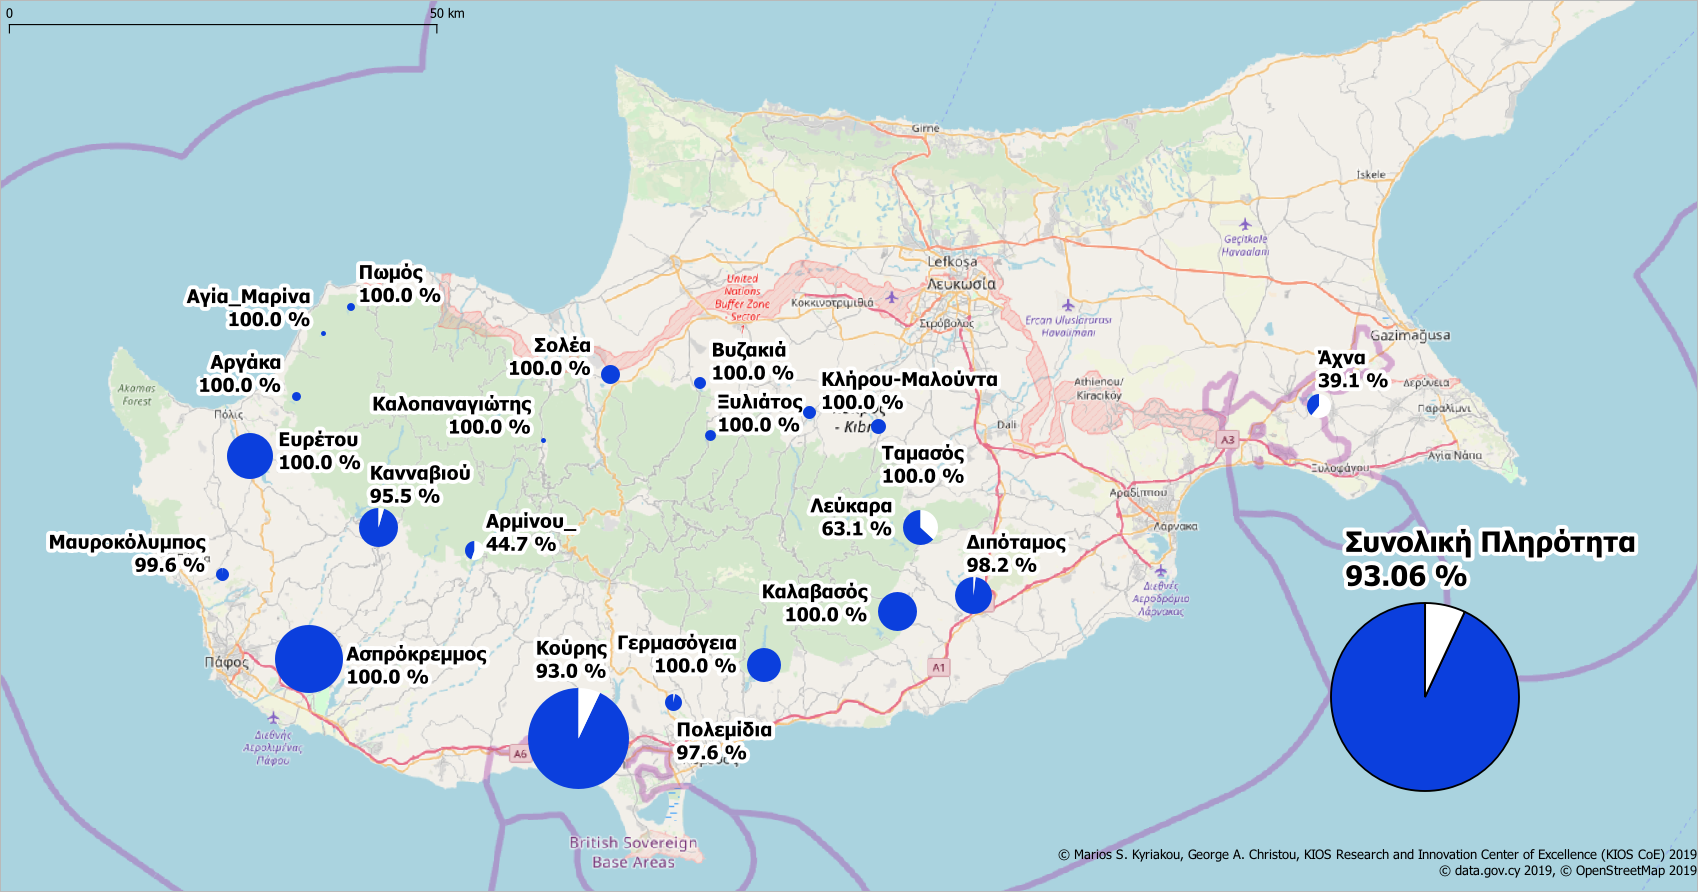
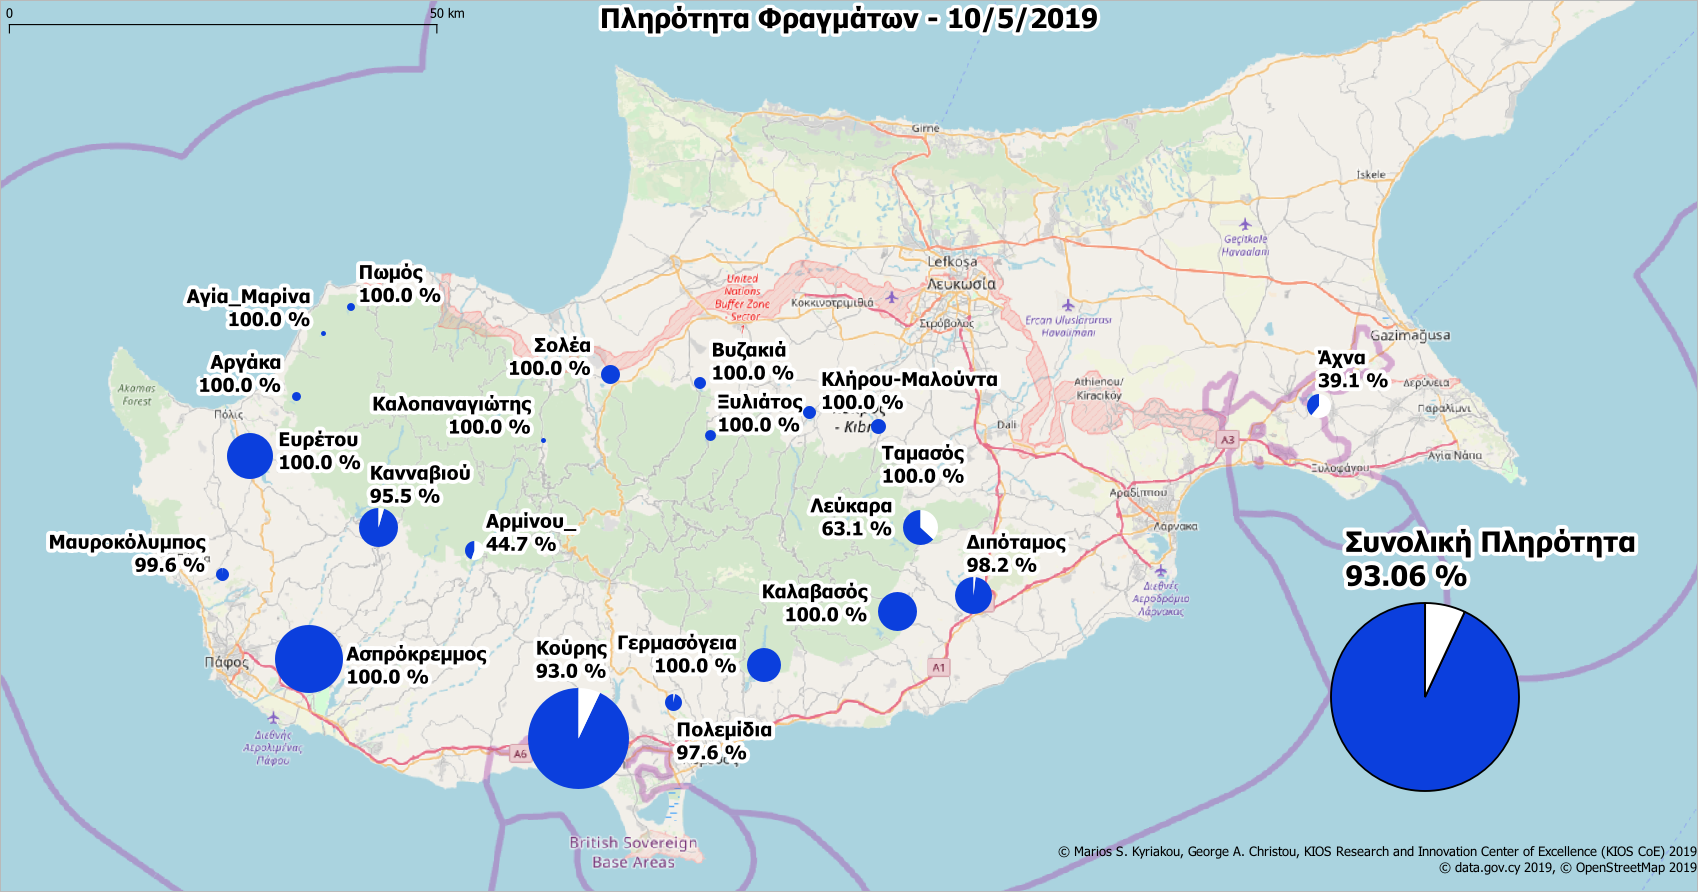
update

Changed region(s): [[0.6243, 0.9383, 1.0, 0.9989], [0.3433, 0.0, 0.6555, 0.0605]]

diff --git a/dams.html b/dams.html
@@ -11,11 +11,7 @@
          1px  1px 7px WHITE;
     }
     }
-<<<<<<< HEAD
-    </style><p><b>Ημερομηνία ανανέωσης δεδομένων: 12/5/2019<p><font color="#0000FF">Η συνολική πληρότητα στα φράγματα είναι 93.06%</font>.<p>Υπάρχουν συνολικά <font color="#0000FF">13</font> φράγματα με πληρότητα <font color="#0000FF">100%</font>.<p>Υπάρχουν <font color="#0000FF">19</font> φράγματα με πληρότητα πάνω από <font color="#0000FF">50%</font>.</b><p><b>Υπάρχουν δεδομένα για 21 φράγματα. Συνολικά υπάρχουν 108 φράγματα. <b><p><p><p>* Ε.Κ.Μ. - Εκατομμύρια Kυβικά  Mέτρα.<table width="444">
-=======
-    </style><p><b>Ημερομηνία ανανέωσης δεδομένων: 9/5/2019<p><font color="#0000FF">Η συνολική πληρότητα στα φράγματα είναι 93.02%</font>.<p>Υπάρχουν συνολικά <font color="#0000FF">13</font> φράγματα με πληρότητα <font color="#0000FF">100%</font>.<p>Υπάρχουν <font color="#0000FF">19</font> φράγματα με πληρότητα πάνω από <font color="#0000FF">50%</font>.</b><p><b>Υπάρχουν δεδομένα για 21 φράγματα. Συνολικά υπάρχουν 108 φράγματα. <b><p><p><p>* Ε.Κ.Μ. - Εκατομμύρια Kυβικά  Mέτρα.<table width="444">
->>>>>>> parent of bac5732... update
+    </style><p><b>Ημερομηνία ανανέωσης δεδομένων: 10/5/2019<p><font color="#0000FF">Η συνολική πληρότητα στα φράγματα είναι 93.06%</font>.<p>Υπάρχουν συνολικά <font color="#0000FF">13</font> φράγματα με πληρότητα <font color="#0000FF">100%</font>.<p>Υπάρχουν <font color="#0000FF">19</font> φράγματα με πληρότητα πάνω από <font color="#0000FF">50%</font>.</b><p><b>Υπάρχουν δεδομένα για 21 φράγματα. Συνολικά υπάρχουν 108 φράγματα. <b><p><p><p>* Ε.Κ.Μ. - Εκατομμύρια Kυβικά  Mέτρα.<table width="444">
     <tbody>
     <tr>
     <th width="2"><b></b></th>
@@ -23,7 +19,7 @@
     <th width="60"><b>Χωρητικότητα (Ε.Κ.Μ.)</b></th>
     <th width="60"><b>Σημερινή (Ε.Κ.Μ.)</b></th>
     <th width="60"><b> Σημερινή Πληρότητα (%)</b></th>
-    </tr><tr><td bgcolor=#1A9641 class=border-white>1</td><td bgcolor=#1A9641 class=border-white>Κούρης</td><td bgcolor=#1A9641 class=border-white>115.0</td><td bgcolor=#1A9641 class=border-white>106.932</td><td bgcolor=#1A9641 class=border-white>93.0</td></tr><tr><tr><td bgcolor=#1A9641 class=border-white>2</td><td bgcolor=#1A9641 class=border-white>Ασπρόκρεμμος</td><td bgcolor=#1A9641 class=border-white>52.375</td><td bgcolor=#1A9641 class=border-white>52.375</td><td bgcolor=#1A9641 class=border-white>100.0</td></tr><tr><tr><td bgcolor=#1A9641 class=border-white>3</td><td bgcolor=#1A9641 class=border-white>Ευρέτου</td><td bgcolor=#1A9641 class=border-white>24.0</td><td bgcolor=#1A9641 class=border-white>23.989</td><td bgcolor=#1A9641 class=border-white>100.0</td></tr><tr><tr><td bgcolor=#1A9641 class=border-white>4</td><td bgcolor=#1A9641 class=border-white>Κανναβιού</td><td bgcolor=#1A9641 class=border-white>17.168</td><td bgcolor=#1A9641 class=border-white>16.38</td><td bgcolor=#1A9641 class=border-white>95.4</td></tr><tr><tr><td bgcolor=#1A9641 class=border-white>5</td><td bgcolor=#1A9641 class=border-white>Καλαβασός</td><td bgcolor=#1A9641 class=border-white>17.1</td><td bgcolor=#1A9641 class=border-white>17.1</td><td bgcolor=#1A9641 class=border-white>100.0</td></tr><tr><tr><td bgcolor=#1A9641 class=border-white>6</td><td bgcolor=#1A9641 class=border-white>Διπόταμος</td><td bgcolor=#1A9641 class=border-white>15.5</td><td bgcolor=#1A9641 class=border-white>15.21</td><td bgcolor=#1A9641 class=border-white>98.1</td></tr><tr><tr><td bgcolor=#A6D96A class=border-white>7</td><td bgcolor=#A6D96A class=border-white>Λεύκαρα</td><td bgcolor=#A6D96A class=border-white>13.85</td><td bgcolor=#A6D96A class=border-white>8.735</td><td bgcolor=#A6D96A class=border-white>63.1</td></tr><tr><tr><td bgcolor=#1A9641 class=border-white>8</td><td bgcolor=#1A9641 class=border-white>Γερμασόγεια</td><td bgcolor=#1A9641 class=border-white>13.5</td><td bgcolor=#1A9641 class=border-white>13.5</td><td bgcolor=#1A9641 class=border-white>100.0</td></tr><tr><tr><td bgcolor=#FED690 class=border-white>9</td><td bgcolor=#FED690 class=border-white>Άχνα</td><td bgcolor=#FED690 class=border-white>6.8</td><td bgcolor=#FED690 class=border-white>2.661</td><td bgcolor=#FED690 class=border-white>39.1</td></tr><tr><tr><td bgcolor=#1A9641 class=border-white>10</td><td bgcolor=#1A9641 class=border-white>Σολέα</td><td bgcolor=#1A9641 class=border-white>4.454</td><td bgcolor=#1A9641 class=border-white>4.454</td><td bgcolor=#1A9641 class=border-white>100.0</td></tr><tr><tr><td bgcolor=#FFFFC0 class=border-white>11</td><td bgcolor=#FFFFC0 class=border-white>Αρμίνου_</td><td bgcolor=#FFFFC0 class=border-white>4.3</td><td bgcolor=#FFFFC0 class=border-white>1.84</td><td bgcolor=#FFFFC0 class=border-white>42.8</td></tr><tr><tr><td bgcolor=#1A9641 class=border-white>12</td><td bgcolor=#1A9641 class=border-white>Πολεμίδια</td><td bgcolor=#1A9641 class=border-white>3.4</td><td bgcolor=#1A9641 class=border-white>3.329</td><td bgcolor=#1A9641 class=border-white>97.9</td></tr><tr><tr><td bgcolor=#1A9641 class=border-white>13</td><td bgcolor=#1A9641 class=border-white>Ταμασός</td><td bgcolor=#1A9641 class=border-white>2.8</td><td bgcolor=#1A9641 class=border-white>2.8</td><td bgcolor=#1A9641 class=border-white>100.0</td></tr><tr><tr><td bgcolor=#1A9641 class=border-white>14</td><td bgcolor=#1A9641 class=border-white>Μαυροκόλυμπος</td><td bgcolor=#1A9641 class=border-white>2.18</td><td bgcolor=#1A9641 class=border-white>2.176</td><td bgcolor=#1A9641 class=border-white>99.8</td></tr><tr><tr><td bgcolor=#1A9641 class=border-white>15</td><td bgcolor=#1A9641 class=border-white>Κλήρου-Μαλούντα</td><td bgcolor=#1A9641 class=border-white>2.0</td><td bgcolor=#1A9641 class=border-white>2.0</td><td bgcolor=#1A9641 class=border-white>100.0</td></tr><tr><tr><td bgcolor=#1A9641 class=border-white>16</td><td bgcolor=#1A9641 class=border-white>Βυζακιά</td><td bgcolor=#1A9641 class=border-white>1.69</td><td bgcolor=#1A9641 class=border-white>1.69</td><td bgcolor=#1A9641 class=border-white>100.0</td></tr><tr><tr><td bgcolor=#1A9641 class=border-white>17</td><td bgcolor=#1A9641 class=border-white>Ξυλιάτος</td><td bgcolor=#1A9641 class=border-white>1.43</td><td bgcolor=#1A9641 class=border-white>1.43</td><td bgcolor=#1A9641 class=border-white>100.0</td></tr><tr><tr><td bgcolor=#1A9641 class=border-white>18</td><td bgcolor=#1A9641 class=border-white>Αργάκα</td><td bgcolor=#1A9641 class=border-white>0.99</td><td bgcolor=#1A9641 class=border-white>0.99</td><td bgcolor=#1A9641 class=border-white>100.0</td></tr><tr><tr><td bgcolor=#1A9641 class=border-white>19</td><td bgcolor=#1A9641 class=border-white>Πωμός</td><td bgcolor=#1A9641 class=border-white>0.86</td><td bgcolor=#1A9641 class=border-white>0.86</td><td bgcolor=#1A9641 class=border-white>100.0</td></tr><tr><tr><td bgcolor=#1A9641 class=border-white>20</td><td bgcolor=#1A9641 class=border-white>Καλοπαναγιώτης</td><td bgcolor=#1A9641 class=border-white>0.363</td><td bgcolor=#1A9641 class=border-white>0.363</td><td bgcolor=#1A9641 class=border-white>100.0</td></tr><tr><tr><td bgcolor=#1A9641 class=border-white>21</td><td bgcolor=#1A9641 class=border-white>Αγία_Μαρίνα</td><td bgcolor=#1A9641 class=border-white>0.298</td><td bgcolor=#1A9641 class=border-white>0.298</td><td bgcolor=#1A9641 class=border-white>100.0</td></tr><tr>
+    </tr><tr><td bgcolor=#1A9641 class=border-white>1</td><td bgcolor=#1A9641 class=border-white>Κούρης</td><td bgcolor=#1A9641 class=border-white>115.0</td><td bgcolor=#1A9641 class=border-white>106.964</td><td bgcolor=#1A9641 class=border-white>93.0</td></tr><tr><tr><td bgcolor=#1A9641 class=border-white>2</td><td bgcolor=#1A9641 class=border-white>Ασπρόκρεμμος</td><td bgcolor=#1A9641 class=border-white>52.375</td><td bgcolor=#1A9641 class=border-white>52.375</td><td bgcolor=#1A9641 class=border-white>100.0</td></tr><tr><tr><td bgcolor=#1A9641 class=border-white>3</td><td bgcolor=#1A9641 class=border-white>Ευρέτου</td><td bgcolor=#1A9641 class=border-white>24.0</td><td bgcolor=#1A9641 class=border-white>24.0</td><td bgcolor=#1A9641 class=border-white>100.0</td></tr><tr><tr><td bgcolor=#1A9641 class=border-white>4</td><td bgcolor=#1A9641 class=border-white>Κανναβιού</td><td bgcolor=#1A9641 class=border-white>17.168</td><td bgcolor=#1A9641 class=border-white>16.389</td><td bgcolor=#1A9641 class=border-white>95.5</td></tr><tr><tr><td bgcolor=#1A9641 class=border-white>5</td><td bgcolor=#1A9641 class=border-white>Καλαβασός</td><td bgcolor=#1A9641 class=border-white>17.1</td><td bgcolor=#1A9641 class=border-white>17.1</td><td bgcolor=#1A9641 class=border-white>100.0</td></tr><tr><tr><td bgcolor=#1A9641 class=border-white>6</td><td bgcolor=#1A9641 class=border-white>Διπόταμος</td><td bgcolor=#1A9641 class=border-white>15.5</td><td bgcolor=#1A9641 class=border-white>15.22</td><td bgcolor=#1A9641 class=border-white>98.2</td></tr><tr><tr><td bgcolor=#A6D96A class=border-white>7</td><td bgcolor=#A6D96A class=border-white>Λεύκαρα</td><td bgcolor=#A6D96A class=border-white>13.85</td><td bgcolor=#A6D96A class=border-white>8.74</td><td bgcolor=#A6D96A class=border-white>63.1</td></tr><tr><tr><td bgcolor=#1A9641 class=border-white>8</td><td bgcolor=#1A9641 class=border-white>Γερμασόγεια</td><td bgcolor=#1A9641 class=border-white>13.5</td><td bgcolor=#1A9641 class=border-white>13.5</td><td bgcolor=#1A9641 class=border-white>100.0</td></tr><tr><tr><td bgcolor=#FED690 class=border-white>9</td><td bgcolor=#FED690 class=border-white>Άχνα</td><td bgcolor=#FED690 class=border-white>6.8</td><td bgcolor=#FED690 class=border-white>2.661</td><td bgcolor=#FED690 class=border-white>39.1</td></tr><tr><tr><td bgcolor=#1A9641 class=border-white>10</td><td bgcolor=#1A9641 class=border-white>Σολέα</td><td bgcolor=#1A9641 class=border-white>4.454</td><td bgcolor=#1A9641 class=border-white>4.454</td><td bgcolor=#1A9641 class=border-white>100.0</td></tr><tr><tr><td bgcolor=#FFFFC0 class=border-white>11</td><td bgcolor=#FFFFC0 class=border-white>Αρμίνου_</td><td bgcolor=#FFFFC0 class=border-white>4.3</td><td bgcolor=#FFFFC0 class=border-white>1.923</td><td bgcolor=#FFFFC0 class=border-white>44.7</td></tr><tr><tr><td bgcolor=#1A9641 class=border-white>12</td><td bgcolor=#1A9641 class=border-white>Πολεμίδια</td><td bgcolor=#1A9641 class=border-white>3.4</td><td bgcolor=#1A9641 class=border-white>3.32</td><td bgcolor=#1A9641 class=border-white>97.6</td></tr><tr><tr><td bgcolor=#1A9641 class=border-white>13</td><td bgcolor=#1A9641 class=border-white>Ταμασός</td><td bgcolor=#1A9641 class=border-white>2.8</td><td bgcolor=#1A9641 class=border-white>2.8</td><td bgcolor=#1A9641 class=border-white>100.0</td></tr><tr><tr><td bgcolor=#1A9641 class=border-white>14</td><td bgcolor=#1A9641 class=border-white>Μαυροκόλυμπος</td><td bgcolor=#1A9641 class=border-white>2.18</td><td bgcolor=#1A9641 class=border-white>2.171</td><td bgcolor=#1A9641 class=border-white>99.6</td></tr><tr><tr><td bgcolor=#1A9641 class=border-white>15</td><td bgcolor=#1A9641 class=border-white>Κλήρου-Μαλούντα</td><td bgcolor=#1A9641 class=border-white>2.0</td><td bgcolor=#1A9641 class=border-white>2.0</td><td bgcolor=#1A9641 class=border-white>100.0</td></tr><tr><tr><td bgcolor=#1A9641 class=border-white>16</td><td bgcolor=#1A9641 class=border-white>Βυζακιά</td><td bgcolor=#1A9641 class=border-white>1.69</td><td bgcolor=#1A9641 class=border-white>1.69</td><td bgcolor=#1A9641 class=border-white>100.0</td></tr><tr><tr><td bgcolor=#1A9641 class=border-white>17</td><td bgcolor=#1A9641 class=border-white>Ξυλιάτος</td><td bgcolor=#1A9641 class=border-white>1.43</td><td bgcolor=#1A9641 class=border-white>1.43</td><td bgcolor=#1A9641 class=border-white>100.0</td></tr><tr><tr><td bgcolor=#1A9641 class=border-white>18</td><td bgcolor=#1A9641 class=border-white>Αργάκα</td><td bgcolor=#1A9641 class=border-white>0.99</td><td bgcolor=#1A9641 class=border-white>0.99</td><td bgcolor=#1A9641 class=border-white>100.0</td></tr><tr><tr><td bgcolor=#1A9641 class=border-white>19</td><td bgcolor=#1A9641 class=border-white>Πωμός</td><td bgcolor=#1A9641 class=border-white>0.86</td><td bgcolor=#1A9641 class=border-white>0.86</td><td bgcolor=#1A9641 class=border-white>100.0</td></tr><tr><tr><td bgcolor=#1A9641 class=border-white>20</td><td bgcolor=#1A9641 class=border-white>Καλοπαναγιώτης</td><td bgcolor=#1A9641 class=border-white>0.363</td><td bgcolor=#1A9641 class=border-white>0.363</td><td bgcolor=#1A9641 class=border-white>100.0</td></tr><tr><tr><td bgcolor=#1A9641 class=border-white>21</td><td bgcolor=#1A9641 class=border-white>Αγία_Μαρίνα</td><td bgcolor=#1A9641 class=border-white>0.298</td><td bgcolor=#1A9641 class=border-white>0.298</td><td bgcolor=#1A9641 class=border-white>100.0</td></tr><tr>
     </tr>
     <tr>
     <td></td>
